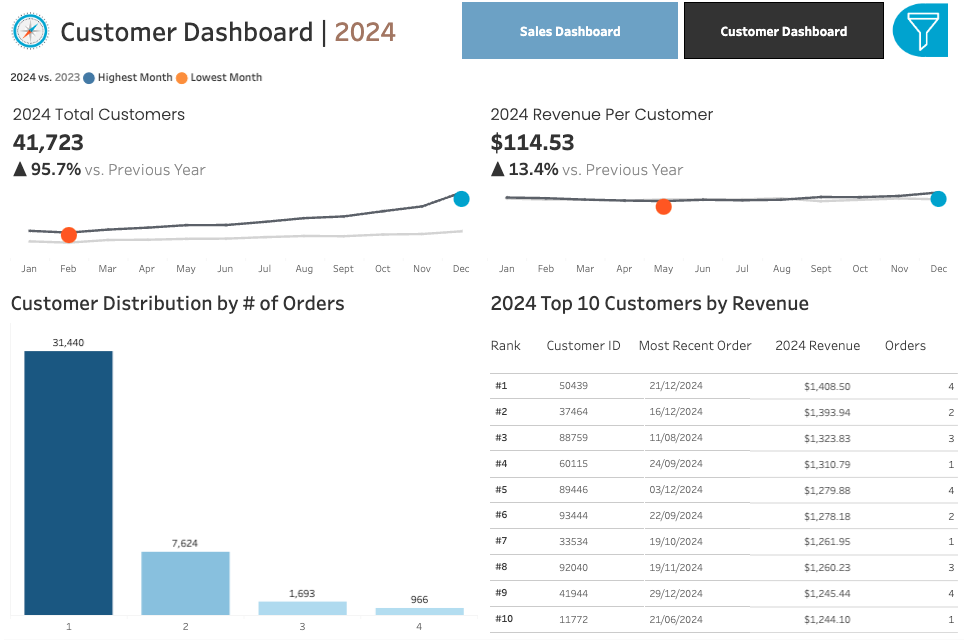
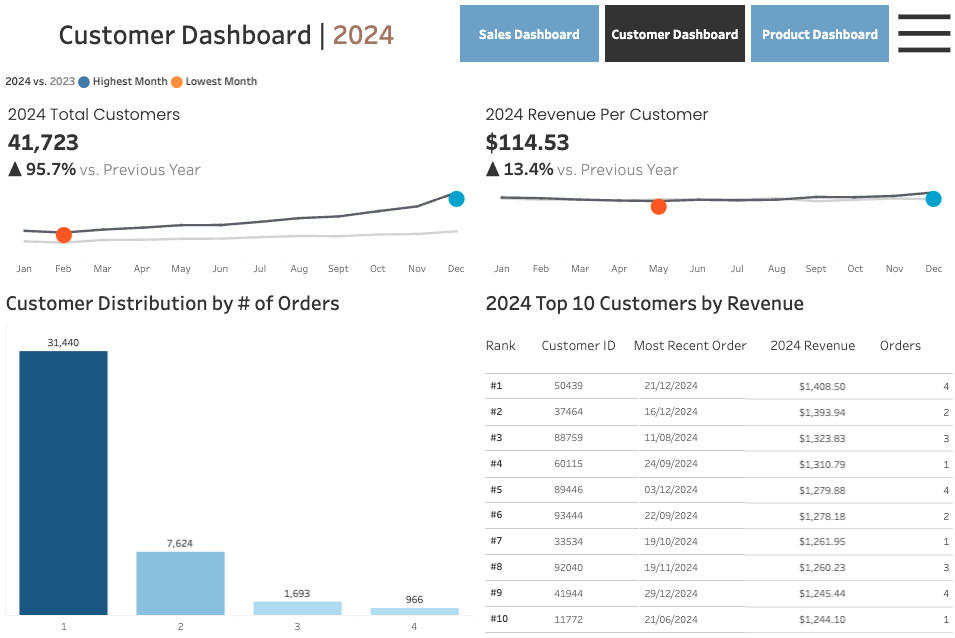
Updated Readme to include product analysis

diff --git a/Readme.md b/Readme.md
@@ -49,7 +49,7 @@ Sales metrics across the board have seen impressive growth in 2024, with slight 
 ### Sales Trends:
 * The company has consistent growth in sales and profits throughout 2024 with a fall to just above the yearly average in the final week of the year. This decrease can likely be attributed to the decrease in demand post-christmas period.
 * The biggest client markets - China, United States, and Brazil - saw revenue increases of 93%, 93.2%, and 104.2% respectively and were responsible for 71.2% of the company's total revenue with China alone accounting for 34% of this. In 2025 efforts should be aimed at diversifying revenue sources by increasing marketing in medium sized markets such as South Korea, Spain and UK.
-* Australia and Poland made 1,191 and 118 orders respectively and brought in $104.8k and $11.1k. We should increase marketing efforts in these regions due to their strong economic status and large populations making them countries with large potential for revenue. This will further help to diversify our regional portfolio.
+* Australia and Poland made 1,191 and 118 orders respectively and brought in only $104.8k and $11.1k. We should increase marketing efforts in these regions due to their strong economic status and large populations making them countries with large potential for revenue. This will further help to diversify our regional portfolio.
 
 Below is the sales overview page from the Tableau dashboard. The entire interactive dashboard can be viewed [here](https://public.tableau.com/app/profile/axel.eichelmann5606/viz/TheLook-eCommerceSalesAnalysis/SalesDashboard).
 
@@ -60,11 +60,18 @@ Below is the sales overview page from the Tableau dashboard. The entire interact
 * $2,078,628 (43.5%) of our revenue in 2024 came from these 24.6% of customers that made more than one order. This highlights the importance of returning customers thus efforts should be made the promote repeat buying perhaps by offering deals to returning customers.
 * Seven of the top 10 highest revenue customers in 2023 did not make a purchase in 2024 - four of these were multiple time buyers. Accordingly, protocols should be implemented in order to maintain relationships with high-value customers to prevent their churn.
 
-Below is the customer overview page from the Tableau dashboard. The entire interactive dashboard can be viewed [here](https://public.tableau.com/app/profile/axel.eichelmann5606/viz/TheLook-eCommerceSalesAnalysis/CustomerDashboard).
+Below is the customer overview page from the Tableau dashboard.
 
 ![Customer Dashboard](assets/CustomerDashboard.png)
 
+### Product Analysis:
+* The top performing category was outerwear & coats bringing in $577.02k of revenue followed closely by Jeans which sold $563.63k, and then Sweaters which sold $357.38k.
+* Seven out of the top 10 products responsible for the most revenue in 2024 were cold weather jackets. Based on this and the previous insight, we should consider expanding the range of available products within the category of outerwear and coats in order to further increase sales.
+* There were 1,802 products in our inventory that achieved no sales in 2024. We should consider removing these from out inventory through flash sales in order to minimize losses. 
 
+Below is the product overview page from the Tableau dashboard.
+
+![Customer Dashboard](assets/ProductDashboard.png)
 
 
 
